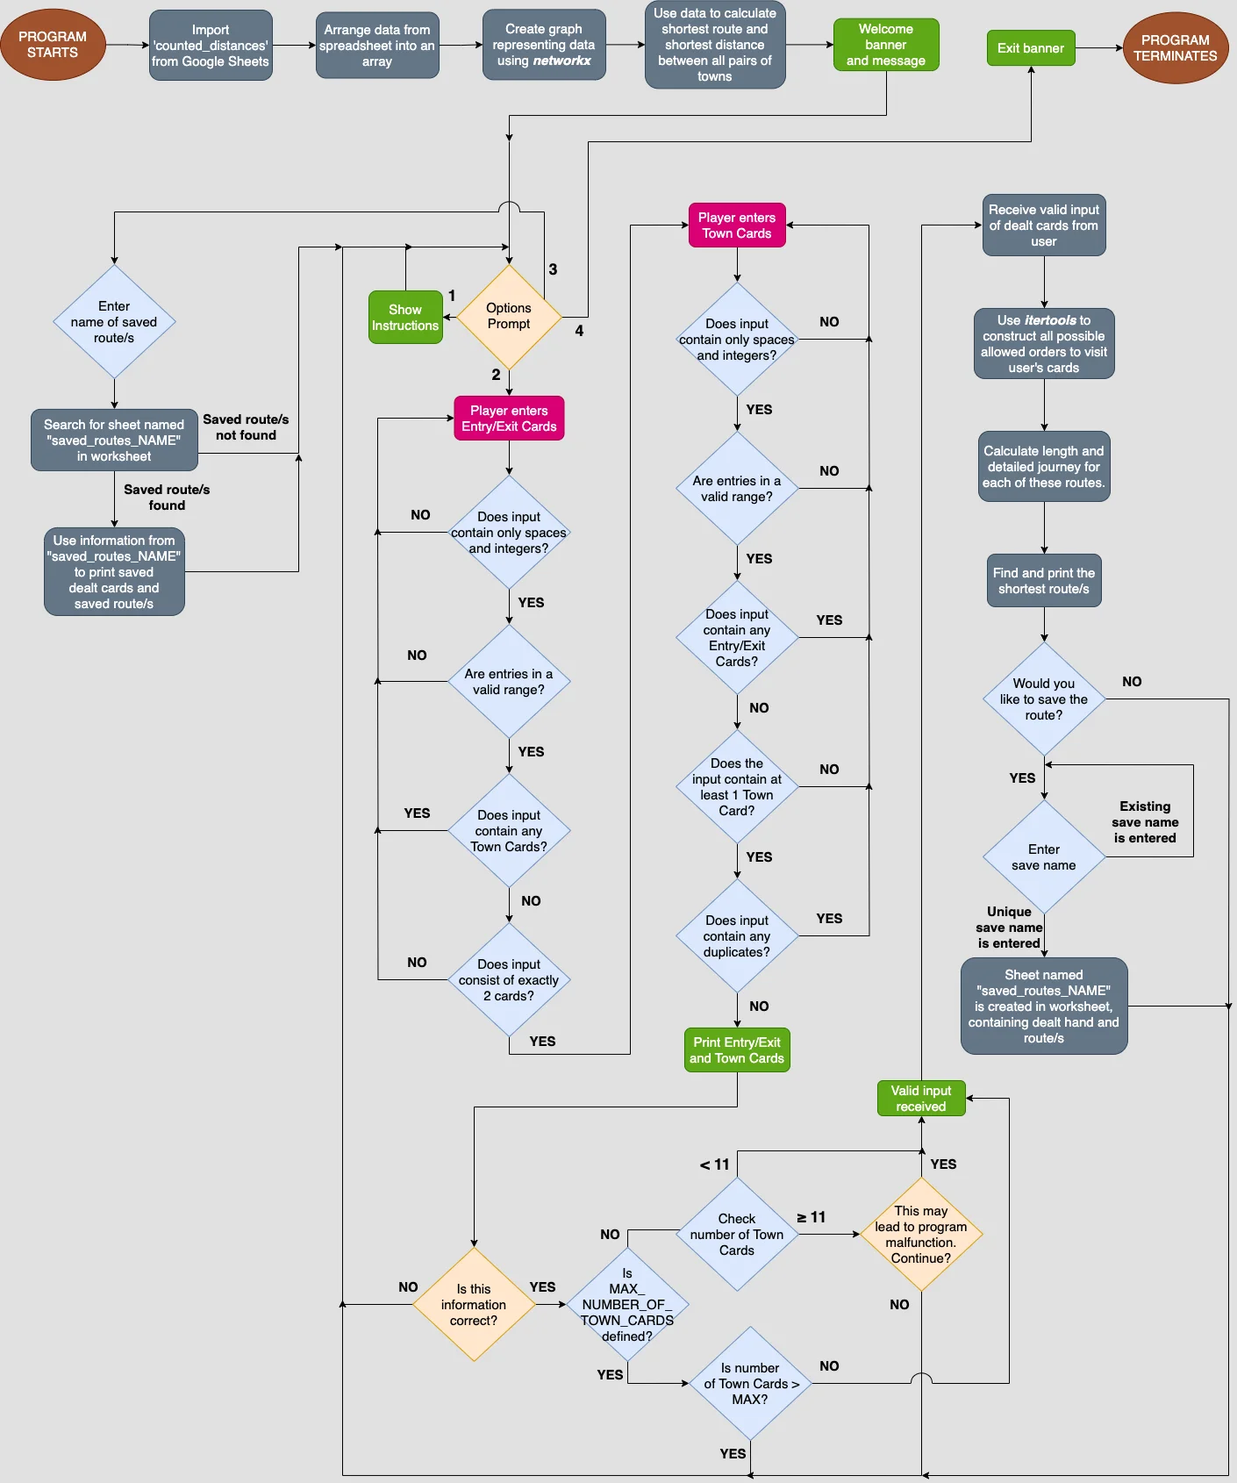
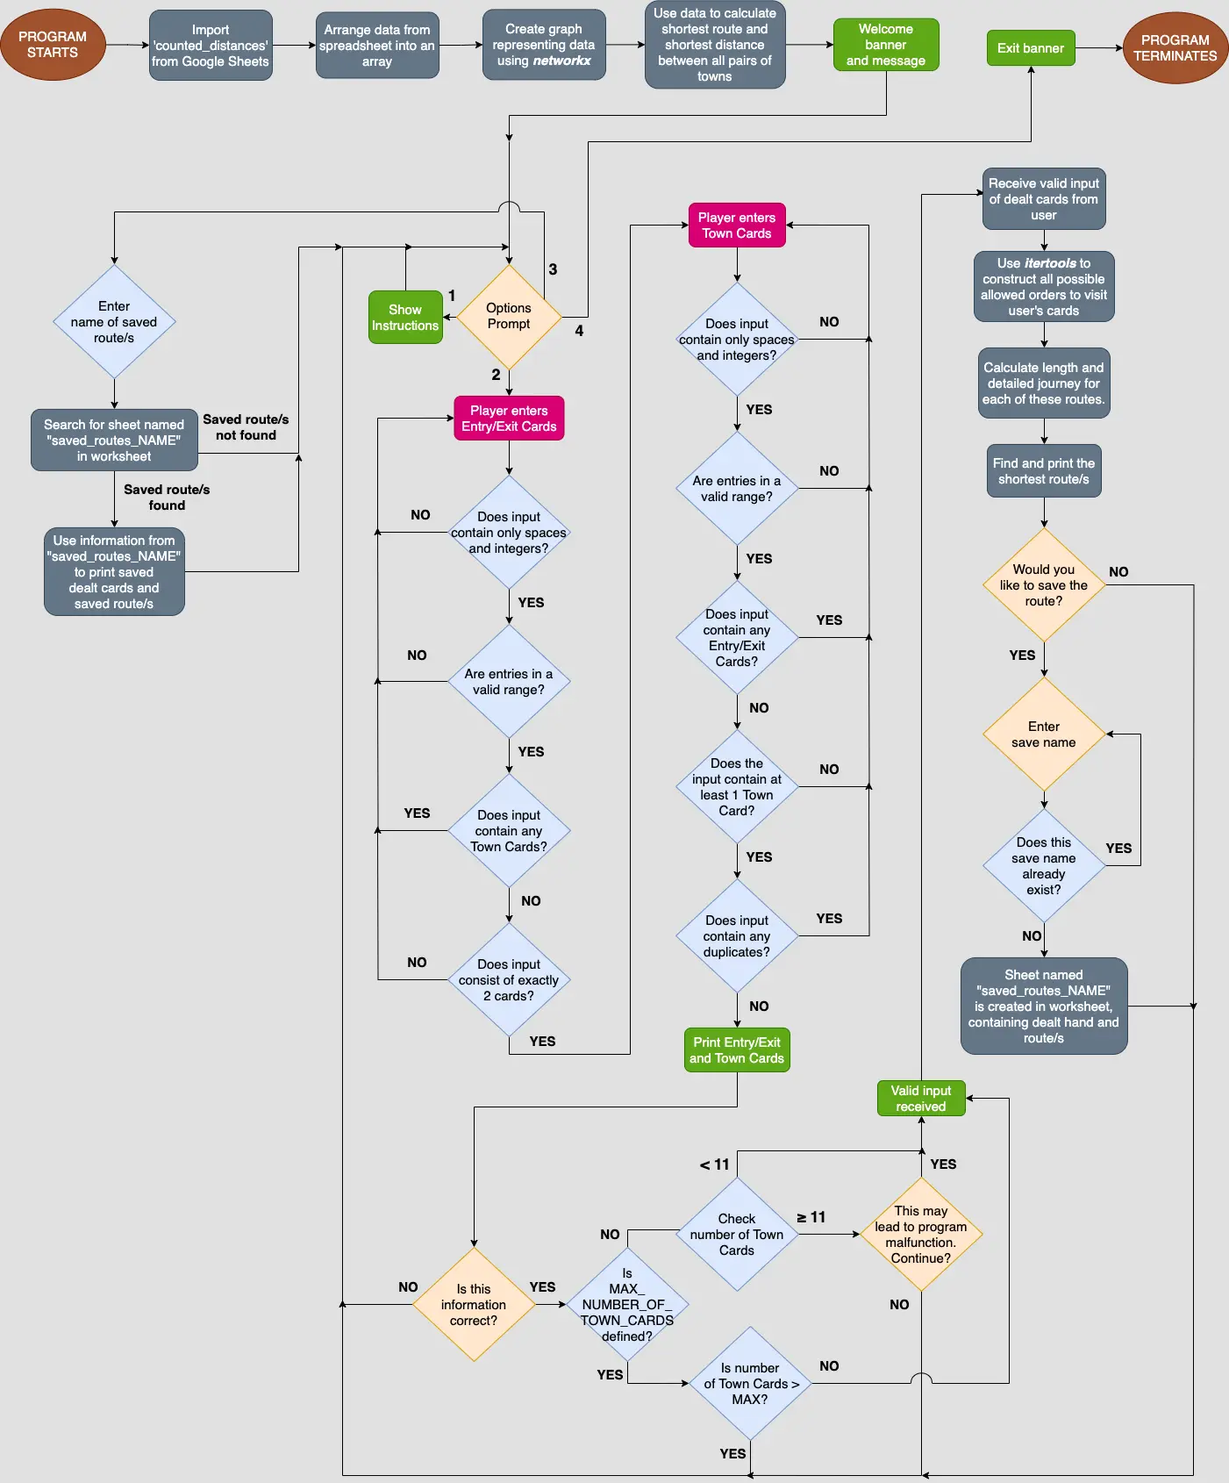
refact: Restrict accepted save names. Spellcheck README.

diff --git a/run.py b/run.py
@@ -8,6 +8,7 @@ import sys
 import time
 import threading
 import os
+import re
 from colorama import Fore, Back, Style, init
 init(autoreset=True)
 
@@ -488,6 +489,11 @@ def save_route_with_name(dealt_hand, results_list):
     while True:
         save_name = input(f"\n  Please enter a name to"
                           f" save your route/s under:\n    ")
+        # Check if save_name starts or ends with whitespace
+        if not re.match(r'^(?!\s).+(?<!\s)$', save_name):
+            print(Fore.RED + Style.BRIGHT +
+                   "\n  Invalid name. Name must not start or end with a space.")
+            continue
         # Start loading_animation
         solver_ready = False
         loading_animation = play_loading_animation("  Saving route/s")

diff --git a/README.md b/README.md
@@ -1,6 +1,6 @@
 # Discovering Ireland Solver - PP3<!-- omit from toc -->
 
-This project is a Python program where users who are playing the board game Discovering Ireland can enter their dealt cards and find out the shortest route to take in the game, thereby greatly increasing their chances of winning.
+This project is a Python program where users who are playing the board game 'Discovering Ireland' can enter their dealt cards and find out the shortest route to take in the game, thereby greatly increasing their chances of winning.
 
 The program is visually pleasing and evokes positive emotions in the user. Instructions, colours and clear prompts make the program simple to follow.
 
@@ -17,11 +17,10 @@ The program is visually pleasing and evokes positive emotions in the user. Instr
   - [Program Objective](#program-objective)
   - [Key Features](#key-features)
 - [Potential Users](#potential-users)
-  - [User Goals](#user-goals)
   - [User Testimonials](#user-testimonials)
 - [Design \& Development](#design--development)
   - [Data Model](#data-model)
-  - [Game Flow/Logic](#game-flow)
+  - [Game Flow/Logic](#game-flowlogic)
   - [Banners](#banners) 
   - [Colour Scheme](#colour-scheme)
   - [Other Features](#other-features)
@@ -33,14 +32,14 @@ The program is visually pleasing and evokes positive emotions in the user. Instr
 - [Testing \& Validation](#testing--validation)
   - [Functional Testing](#functional-testing)
   - [PEP8 Validation](#pep8-validation)
-- [Future Improvements/Development](#future-improvementsdevelopment)
+- [Future Improvements/Development](#future-improvementsdevelopments)
 - [Acknowledgments](#acknowledgments)
 
 ## Introduction
 
 ### History
 
-**Discovering Ireland** is a board game originally released by Gosling Games in 1987, and has gone on to sell over 250,000 copies. The newer version (which this program was written with in mind) was releasd in 2018. The playing board consists of 52 towns, each connected to some of the other towns by a number of steps/blocks.
+'Discovering Ireland' is a board game originally released by Gosling Games in 1987, and has gone on to sell over 250,000 copies. The newer version (which this program was written with in mind) was releasd in 2018. The playing board consists of 52 towns, each connected to some of the other towns by a number of steps/blocks. Below is an image of the playing board, kindly sent to me by [Gosling Games](#acknowledgments).
 
 ![Image of Board](/documents/readme-images/playing-board.webp)
 
@@ -73,7 +72,7 @@ An example of a route that the player might take for these cards would be the fo
 
 ### Game Theory
 
-Whilst playing with my partner at home, we have often both been in the situation where it is unclear as to which route is the best/shortest to take. Since there is a relatively small number of towns, each connected to only a few other towns, it seemed apparent to me that one could create a graph/network that represents the game: each town being represented by a node, and each pair of adjacent towns connected by an edge whose weight is the number of steps between said towns. From this, one could use `numpy` and `networkx` to find the shortest path. This means we can essentially reduce playing the game to a modified Travelling Salesman Problem (those unfamiliar with this problem can [read more about it here](https://en.wikipedia.org/wiki/Travelling_salesman_problem)). The modifications in this case are that we don't want to necessarily end where we started, and we only need to visit a subset of all vertices in the graph (but we may traverse all edges on the graph in our journey).
+Whilst playing with my partner at home, we have often both been in the situation where it is unclear as to which route is the best/shortest to take. Since there is a relatively small number of towns, each connected to only a few other towns, it seemed apparent to me that one could create a graph/network that represents the game: each town being represented by a node/vertex, and each pair of adjacent towns connected by an edge whose weight is the number of steps between said towns. From this, one could use `numpy` and `networkx` to find the shortest path. This means we can essentially reduce playing the game to a modified Travelling Salesman Problem (those unfamiliar with this problem can [read more about it here](https://en.wikipedia.org/wiki/Travelling_salesman_problem)). The modifications in this case are that we don't want to necessarily end where we started, and we only need to visit a subset of all vertices in the graph (but we may traverse all edges of the graph in our journey).
 
 By creating a graph of the game, I can exploit properties and algorithms used in Graph Theory to systematically explore any/all routes simply through `for` loops in code, thereby ensuring that the resulting path is the shortest that exists. Due to the relatively small number of towns and Town Cards, this problem can be solved in (at most) a few seconds. For larger numbers of Town Cards, more computing power (or a lot more time) would be needed.
 
@@ -119,11 +118,11 @@ To create a program that, given a hand of cards a player is dealt, will create t
 
 *Christina - aged 32 - Plays Discovering Ireland regularly*
 
-"I was very interested to try out the program, but initially was a bit apprehensive as I am not the best when it comes to computers and programs. However, the program was very easy to follow and easy to understand. I liked the use of colour, and enjoyed the detailed results I got, this helped me create the path taken during my game, which I ended up winning! I also like the timer function: although it's not a necessity, it's interesting to see just how quickly the computer can calculate such a complicated problem!"
+"I was very interested to try out the program, but initially was a bit apprehensive as I am not the best when it comes to computers and programs. However, the program was very easy to follow and easy to understand. I liked the use of colour, and enjoyed the detailed results I got. This helped me create the path taken during my game, which I ended up winning! I also like the timer function: although it's not a necessity, it's interesting to see just how quickly the computer can calculate such a complicated problem!"
 
-*Jens - 27 - Studying Graph Theory as part of his Maths degree*
+*Jens - 27 - Studying Graph Theory as part of his Mathematics degree*
 
-"When I heard about the maths behind the program, I was interested, as I hadn't heard of this particular modified version of the Travelling Salesman Problem. After reading the instructions and having a look at the game board, I tried it out to see how well the program would perform. I also tried to trick it by giving an input I knew would confuse the program, but the error messages stopped any invalid input from being allowed. When I looked at the source code, I could see that the networkx module was incredibly easy to use, and the way the information is handled and laid out is very easy to make sense of. I'll be sure to explore networkx when I'm doing my projects in the future, and it's good to know I can refer back to this program to remind me how it works!"
+"When I heard about the maths behind the program, I was interested, as I hadn't heard of this particular modified version of the Travelling Salesman Problem. After reading the instructions and having a look at the game board, I tried it out to see how well the program would perform. I also tried to trick it by giving an input I knew would confuse the program, but the error messages stopped any invalid input from being allowed. When I looked at the source code, I could see that the networkx module was easy to use, and the way the information is handled and laid out is very easy to make sense of. I'll be sure to explore networkx when I'm doing my projects in the future, and it's good to know I can refer back to this program to remind me how it works!"
 
 ## Design & Development
 
@@ -135,7 +134,7 @@ Here is a breakdown of how the program runs its calculations:
 
 1. *Create an adjacency matrix, containing the number of steps between all pairs of adjacent towns*
 
-The only direct data input for this was `counted_distances`, which is a Google Sheet with the distances between adjacent towns. For example, the value of the cell indexed $(41,47)$ is 13, as there **is** a direct path between $42$: Tipperary and $48$: Killarney, and the length of this path is $13$. Here, it important to remember that indexing starts at $0$, hence the difference of $1$ between town number and corresponding index. (I later rename the vertices in the graph to fix this discrepency). The value in cell indexed $(6,8)$ is $0$, since ther **is not** a direct path between $7$: Strabane and $9$: Belfast that doesn't go through another town.
+The main data input for this was `counted_distances`, which is a Google Sheet with the distances between adjacent towns. For example, the value of the cell indexed $(41,47)$ is $13$, as there **is** a direct path between $42$: Tipperary and $48$: Killarney, and the length of this path is $13$. Here, it important to remember that indexing starts at $0$, hence the difference of $1$ between town number and corresponding index. (I later rename the vertices in the graph to fix this discrepency). The value in cell indexed $(6,8)$ is $0$, since ther **is not** a direct path between $7$: Strabane and $9$: Belfast that doesn't go through another town.
 
 Since `counted_distances` is symmetrical (the shortest distance from town A to town B is the same as from town B to town A), I actually only counted half of the entries and then created a symmetrical spreadsheet from that. This halved the amount of manual counting needed in order to set up the model.
 
@@ -151,22 +150,21 @@ For example, the entry in index $(5,12)$ of `distances` is the length of the pat
 
 4. *User inputs their assigned cards*
 
-Note: During construction, I randomly assignned a valid dealt hand of cards in order to sidestep this in the early stages. This was removed in later commits.
+[Note: During construction, I randomly assignned a valid dealt hand of cards in order to sidestep this in the early stages. This was removed in later commits].
 
-It's here that data validation is crucial, since the input must be in exactly the correct format, in the correct place. [You can read more about the data validation here](#other-features)
+It's here that data validation is crucial, since the input must be in exactly the correct format, in the correct place. [You can read more about the data validation here](#other-features).
 
 5. *Create a list of all possible routes that visit these towns (whilst abiding by the rules of the game, i.e. starting and finishing on an Entry/Exit Card)*
 
-Use `itertools` to create a list of all permutations of `assigned_town_cards`. This list is then stacked with the 2 Entry/Exit Cards to give `all_routes`: every legal way of completing the game with the users given cards.
+Use `itertools` to create a list of all permutations of `assigned_town_cards`. This list is then stacked with the 2 Entry/Exit Cards to give `all_routes`: every legal way of completing the game with the user's given cards.
 
 6. *Calculate the length of all of these possible routes*
 
 `route_lengths` is constructed by finding the corresponding entry in `distances` for each consecutive pair of towns in a given permutation, and adding them together to give the length of that particular path.
 
-7. *Find the shortest route length value/s, and print the corresponding route that the player should take, including all towns they will visit along their journey*
+7. *Find the shortest route length value/s, and print the corresponding route/s that the player should take, including all towns they will visit along their journey/s*
 
 Find the miniminum value/s in `route_lengths` and the corresponding entry in `all_routes` for this/these. These will then be printed clearly for the user, highlighting when they visit one of the towns corresponding to one of their cards. 
-
 
 ### Game Flow/Logic
 
@@ -218,7 +216,7 @@ I used red for error messages, as people often associate the colour red with war
 
 ![Result 1](/documents/readme-images/result-1.webp) ![Result 2](/documents/readme-images/result-2.webp) ![Result 3](/documents/readme-images/result-3.webp) ![Result 4](/documents/readme-images/result-4.webp)
 
-- Timer: the user is shown how long the calculation has taken. This is purely to satisfy curiosity, and was a feature that I created during construction and testing, but users have responded well to it, so I left it in.
+- Timer: the user is shown how long the calculation has taken. This is purely to satisfy curiosity, and was a feature that I created during construction and testing. Users have responded well to it, so I left it in.
 
 ![Time Taken](/documents/readme-images/timer-2.webp)
 
@@ -230,7 +228,11 @@ I used red for error messages, as people often associate the colour red with war
 
 ![Save with name](/documents/readme-images/save-with-name.webp)
 
-If a save with the entered name already exists, an error message appears and the user is asked to enter another name.
+To avoid naming errors in the created sheets, names that begin or end with a space are not accepted. If the user enters such a name, they see the following warning.
+
+![Save name with spaces](/documents/readme-images/save-with-spaces.webp)
+
+Similarly, if a save with the entered name already exists, an error message appears and the user is asked to enter another name.
 
 ![Save name exists error](/documents/readme-images/save-already-exists.webp)
 
@@ -242,11 +244,11 @@ When successfully saved, the saved route/s, along with the name and the dealt ha
 
 ![Loaded saved routes](/documents/readme-images/example-loaded-save.webp)
 
-In the instance that a name not responding to saved route/s is entered, an error message appears.
+In the instance that a name not correlating to a previous save is entered, an error message appears.
 
 ![Loading save error](/documents/readme-images/nonexistant-save.webp)
 
-- Data validation: ensuring that the input is of exactly the correct form. This includes checking if Town Card and Entry/Exit Card input only contains spaces and integers (as requested); that the numbers are in the range $1$ - $52$; that Town Cards are entered when asked for Town Cards; that Entry/Exit cards anre entered when asked for Entry/Exit Cards; that no duplicate Town Cards are entered; that the save name is unique; that the load name corresponds to a previous save.
+- Data validation: ensuring that the input is in exactly the correct form. This includes checking if Town Card and Entry/Exit Card input only contains spaces and integers (as requested); that the numbers are in the range $1$ - $52$; that Town Cards are entered when asked for Town Cards; that Entry/Exit cards are entered when asked for Entry/Exit Cards; that no duplicate Town Cards are entered; that the save name is unique; that the load name corresponds to a previous save.
 I also created `yes_inputs` and `no_inputs`, which allow several variationns of `YES` and `NO` to be accepted, to allow for a missed letter/spelling mistake/lower case letters. It is also important to note that an incorrect input can often lead to more than one error (e.g. if, when prompted to enter Town Cards, the user enters a non-integer value as well as an Entry/Exit card, such as `r 5`). Rather than flooding the screen with several error messages, I decided to just print one. If the user then fixed this one error and not the other, another relevant error message would appear alerting them of the problem. More specifics can be seen in the [Functional Testing below](#functional-testing).
 
 ## Technology \& Resources
@@ -290,13 +292,13 @@ Used to cycle through `dots` in the `loading_animation`. Also used to find all p
 
 **`sys`**
 
-`sys.stdout.write()` was used in `laoding_animation` so that the line where `Loading . . .` appeared was rewritten, rather than the standard `print()` which would have printed each iteration on a new line.
+`sys.stdout.write()` was used in `loading_animation` so that the line where `Loading . . .` appeared was rewritten, rather than the standard `print()` which would have printed each iteration on a new line.
 
 **`time`**
 
 To create a pause during  `loading_animation`.
 
-`threading`
+**`threading`**
 
 Allows the `loading_animation` to run simultaneously with the rest of the code.
 
@@ -308,6 +310,9 @@ Adding colour to text, prompts, error messages.
 
 Allows the code to read the environment vairable `MAX_NUMBER_OF_TOWNS` for the particular environment that the program is being deployed on.
 
+**`re`**
+
+Allows the code to check that the form of the `save_name` input is a specific regular expression, to avoid different inputs being saved as a sheet with the same name.
 
 ## Deployment
 
@@ -324,7 +329,7 @@ Allows the code to read the environment vairable `MAX_NUMBER_OF_TOWNS` for the p
 Once the GitHub repo has been cloned, the user can set up their own `counted_distances` and `town_names` spreadsheets if they wish to modify the code to a different game/board/set up. For example, they might want to use the older version of the Discovering Ireland board which has a different layout and only 50 towns.
 
 **`counted_distances`**:
-The entries in each cell of row $a$ and column $a$ is $0$ if there is no direct path from $a$ to $b$ (without passing through at least 1 other town). Otherwise, if $a$ and $b$ are directly linked, it is the shortest distance from $a$ to $b$. For example, the entry in cell $AF39$ is $15$: $AF$ is the 32nd column; 32 - Tullamore and 39 - Shannon are directly linked, and the distance between them is $15$.
+The entry in row $a$ and column $b$ is $0$ if there is no direct path from $a$ to $b$ (without passing through at least 1 other town). Otherwise, if $a$ and $b$ are directly linked, it is the shortest distance from $a$ to $b$. For example, the entry in cell $AF39$ is $15$: $AF$ is the 32nd column; $32$: Tullamore and $39$: Shannon are directly linked, and the distance between them is $15$.
 
 **`town_names`**:
 This is a simply a list of all town names in order , starting in cell $A1$. For example, the entry in cell $A37$ is `Tullamore`, since this is town number `37`.
@@ -364,11 +369,11 @@ The `loading_dots` animation wasn't working as expected: when it cycled back to 
 
 ![Loading dots problem](/documents/readme-images/dots-problem.webp)
 
-After reading up about `sys.stdout.write()` on [Stack Overflow](#technology--resources), I discovered the issue. `sys.stdout.write()` wasn’t rewriting the line (as in erasing and then writing a new thing on top). It was simply putting the new input on top of the old: like putting a sticker on something. If the sticker behind is larger, it still can be seen even though there is a newer one on top.
+After reading up about `sys.stdout.write()` on [Stack Overflow](#technology--resources), I discovered the issue. `sys.stdout.write()` wasn’t rewriting the line (it wasn't erasing and then writing a new thing on top). It was simply putting the new input on top of the old: like putting a sticker on something. If the sticker behind is larger, it still can be seen even though there is a newer one on top.
 
 ![Loading dots code before](/documents/readme-images/dots-before.webp)
 
-I solved this by changing the list of objects to be written, adding blank spaces to the earlier ones that will ‘block’ the dots when the cycle restarts.
+I solved this by changing the list of objects to be written, adding blank spaces to the earlier ones that will ‘block’ the previous dots when the cycle restarts.
 
 ![Loading dots code after](/documents/readme-images/dots-after.webp)
 
@@ -532,7 +537,8 @@ The main purpose of this is to ensure that all data validation steps work as int
 ||Enter anything other than `1` or `2`|Input is not accepted. Prompt reappears|PASS|
 |`calculate_route` execution|A valid collection of Entry/Exit Cards and Town Cards were given during the above stages|`Calculating roots . . .` animation appears, shortly followed by the `Optimal route length` and the list of all routes fo that length. These routes are labelled and colour coordinated for clarity to the user, with a prompt telling the user to scroll up to review their routes. `Do you want to run the program with another selection of cards? Please type YES or NO:` appears|PASS|
 |`Would you like to save your route/s?...` prompt|Enter any element from `yes_inputs`|User is asked to enter a name|PASS|
-||User enters the name of an existing save|`Saved route/s already exist with this name.` appears. The user can enter another name to save under|PASS|
+||User enters the name of an existing save|`Invalid name. Name must not start or end with a space.` appears. The user can enter another name to save under|PASS|
+||User enters a name beginning/ending with a space|`Saved route/s already exist with this name.` appears. The user can enter another name to save under|PASS|
 ||User enters a unique (not pre-existing) save name|`Route/s saved with name: 'NAME'.` appears, with `NAME` replaced by user's enterred save name|PASS|
 |Loading saved route|User inputs a name that *does not* correspond to a saved route|`No saved route/s found with the name 'NAME'.` appears, with `NAME` replaced by user's enterred load name. User can enter another name to try again|PASS|
 ||User inputs a name that *does* correspond to a saved route|`Loading route/s . . .` animation appears, shortly followed by the loaded route/s, as well as the corresponding Entry/Exit Cards and Town Cards|PASS|
@@ -543,7 +549,7 @@ The main purpose of this is to ensure that all data validation steps work as int
 
 ![PEP8 Validation Result](/documents/readme-images/linter-result.webp)
 
-## Future Improvements/Developments
+## Future Improvements/Development
 
 - Add a front end, to improve the overall look and emotional response of the user. A lot of peolpe would be turned away by a terminal as they might be worried that it is 'too technical', so making it look more like a regular website, and having the input being through an input form using JavaScript would make it more accessible to most people.
 
